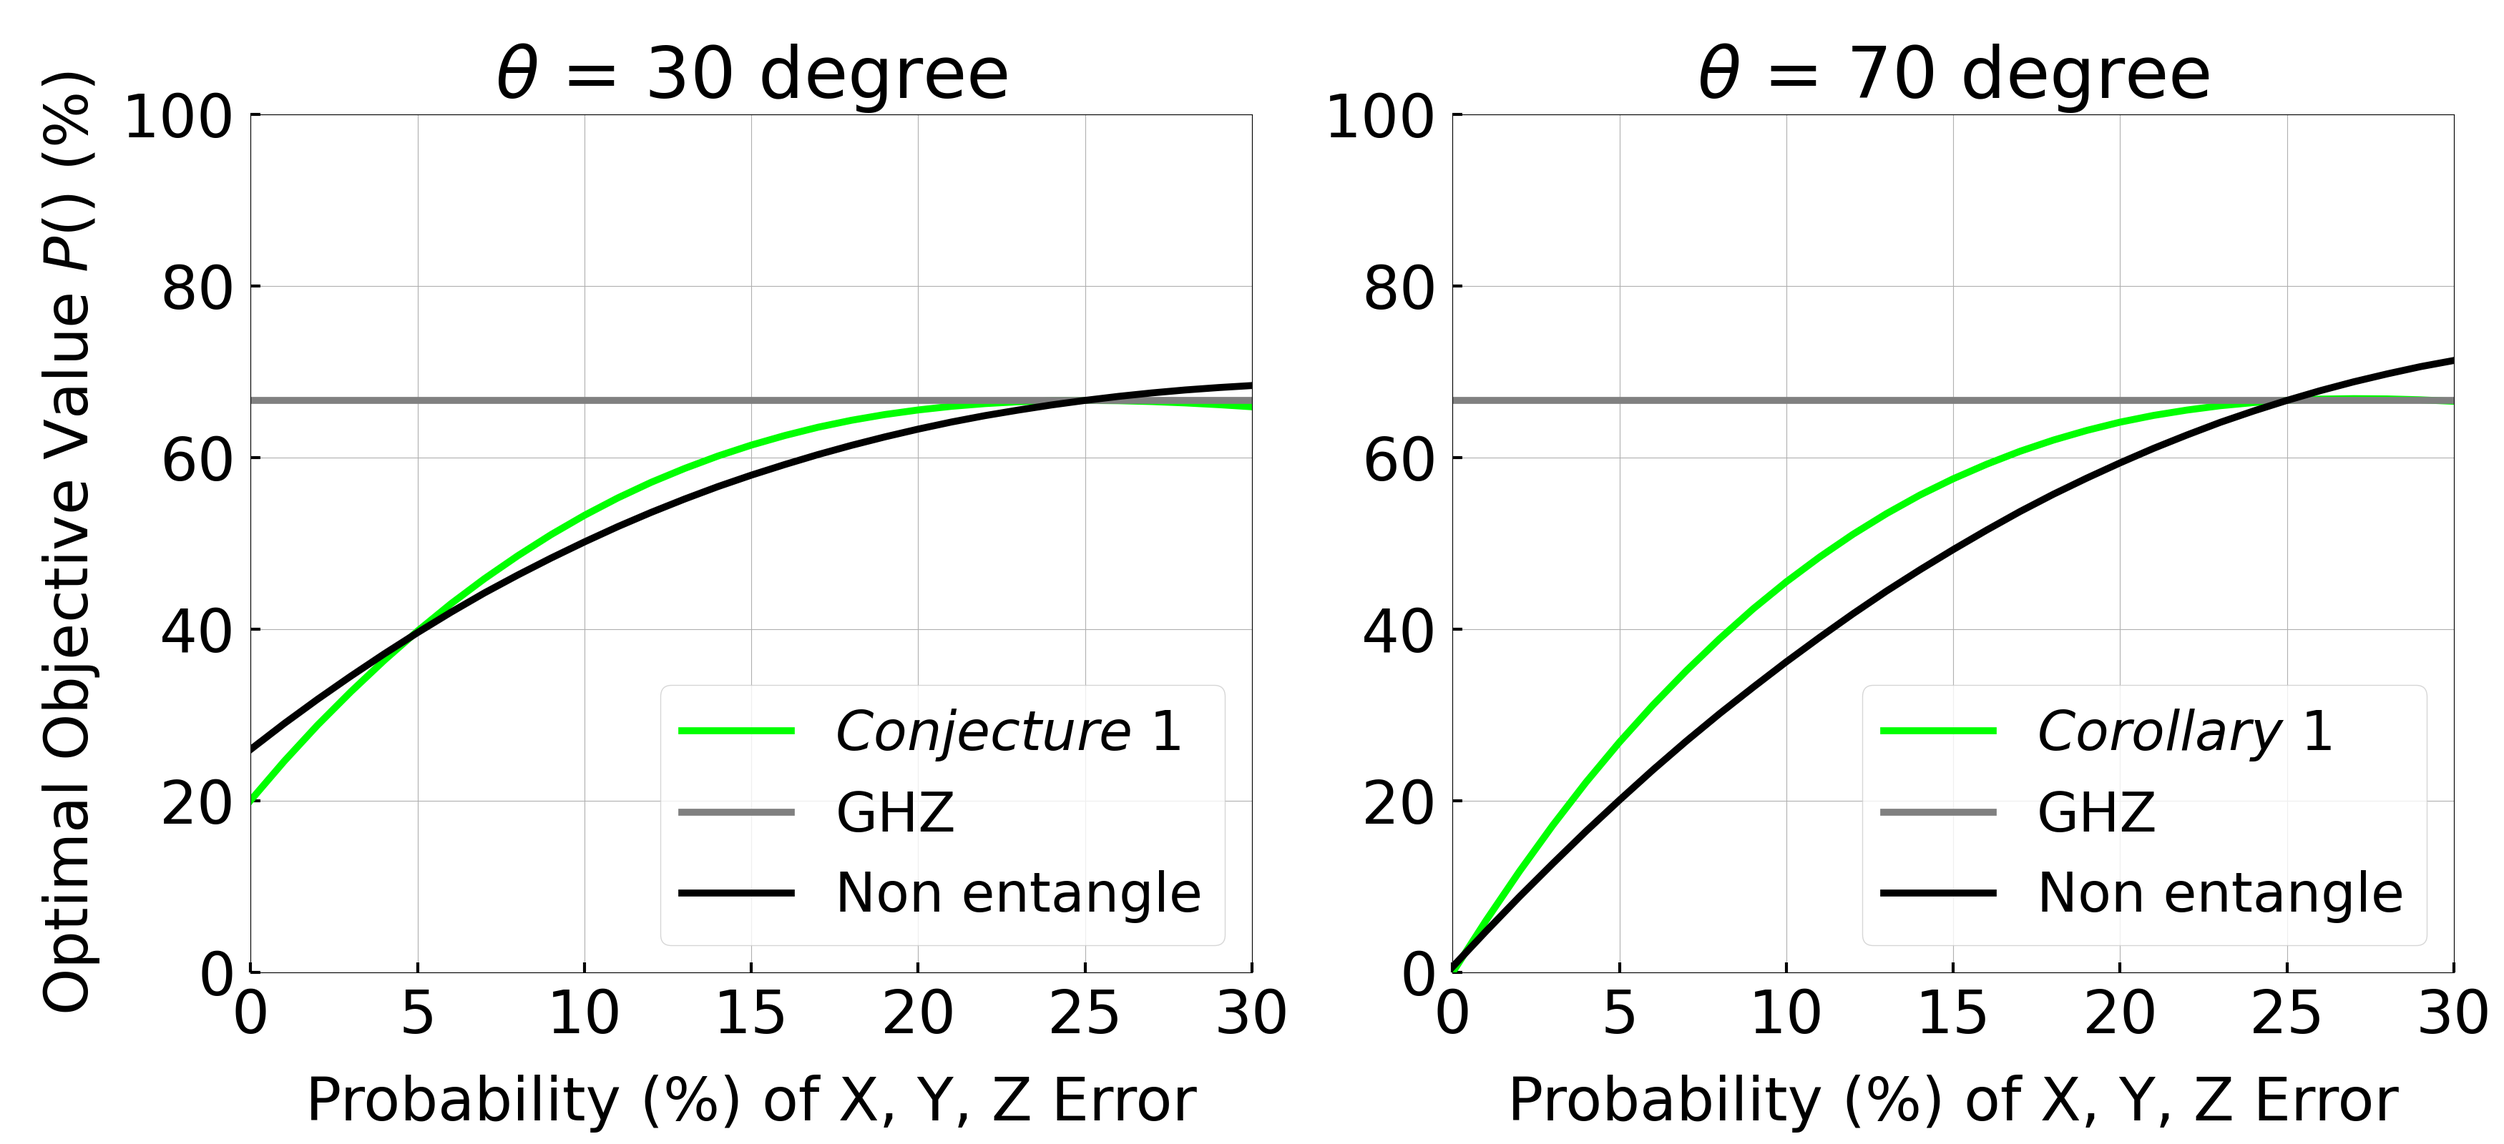
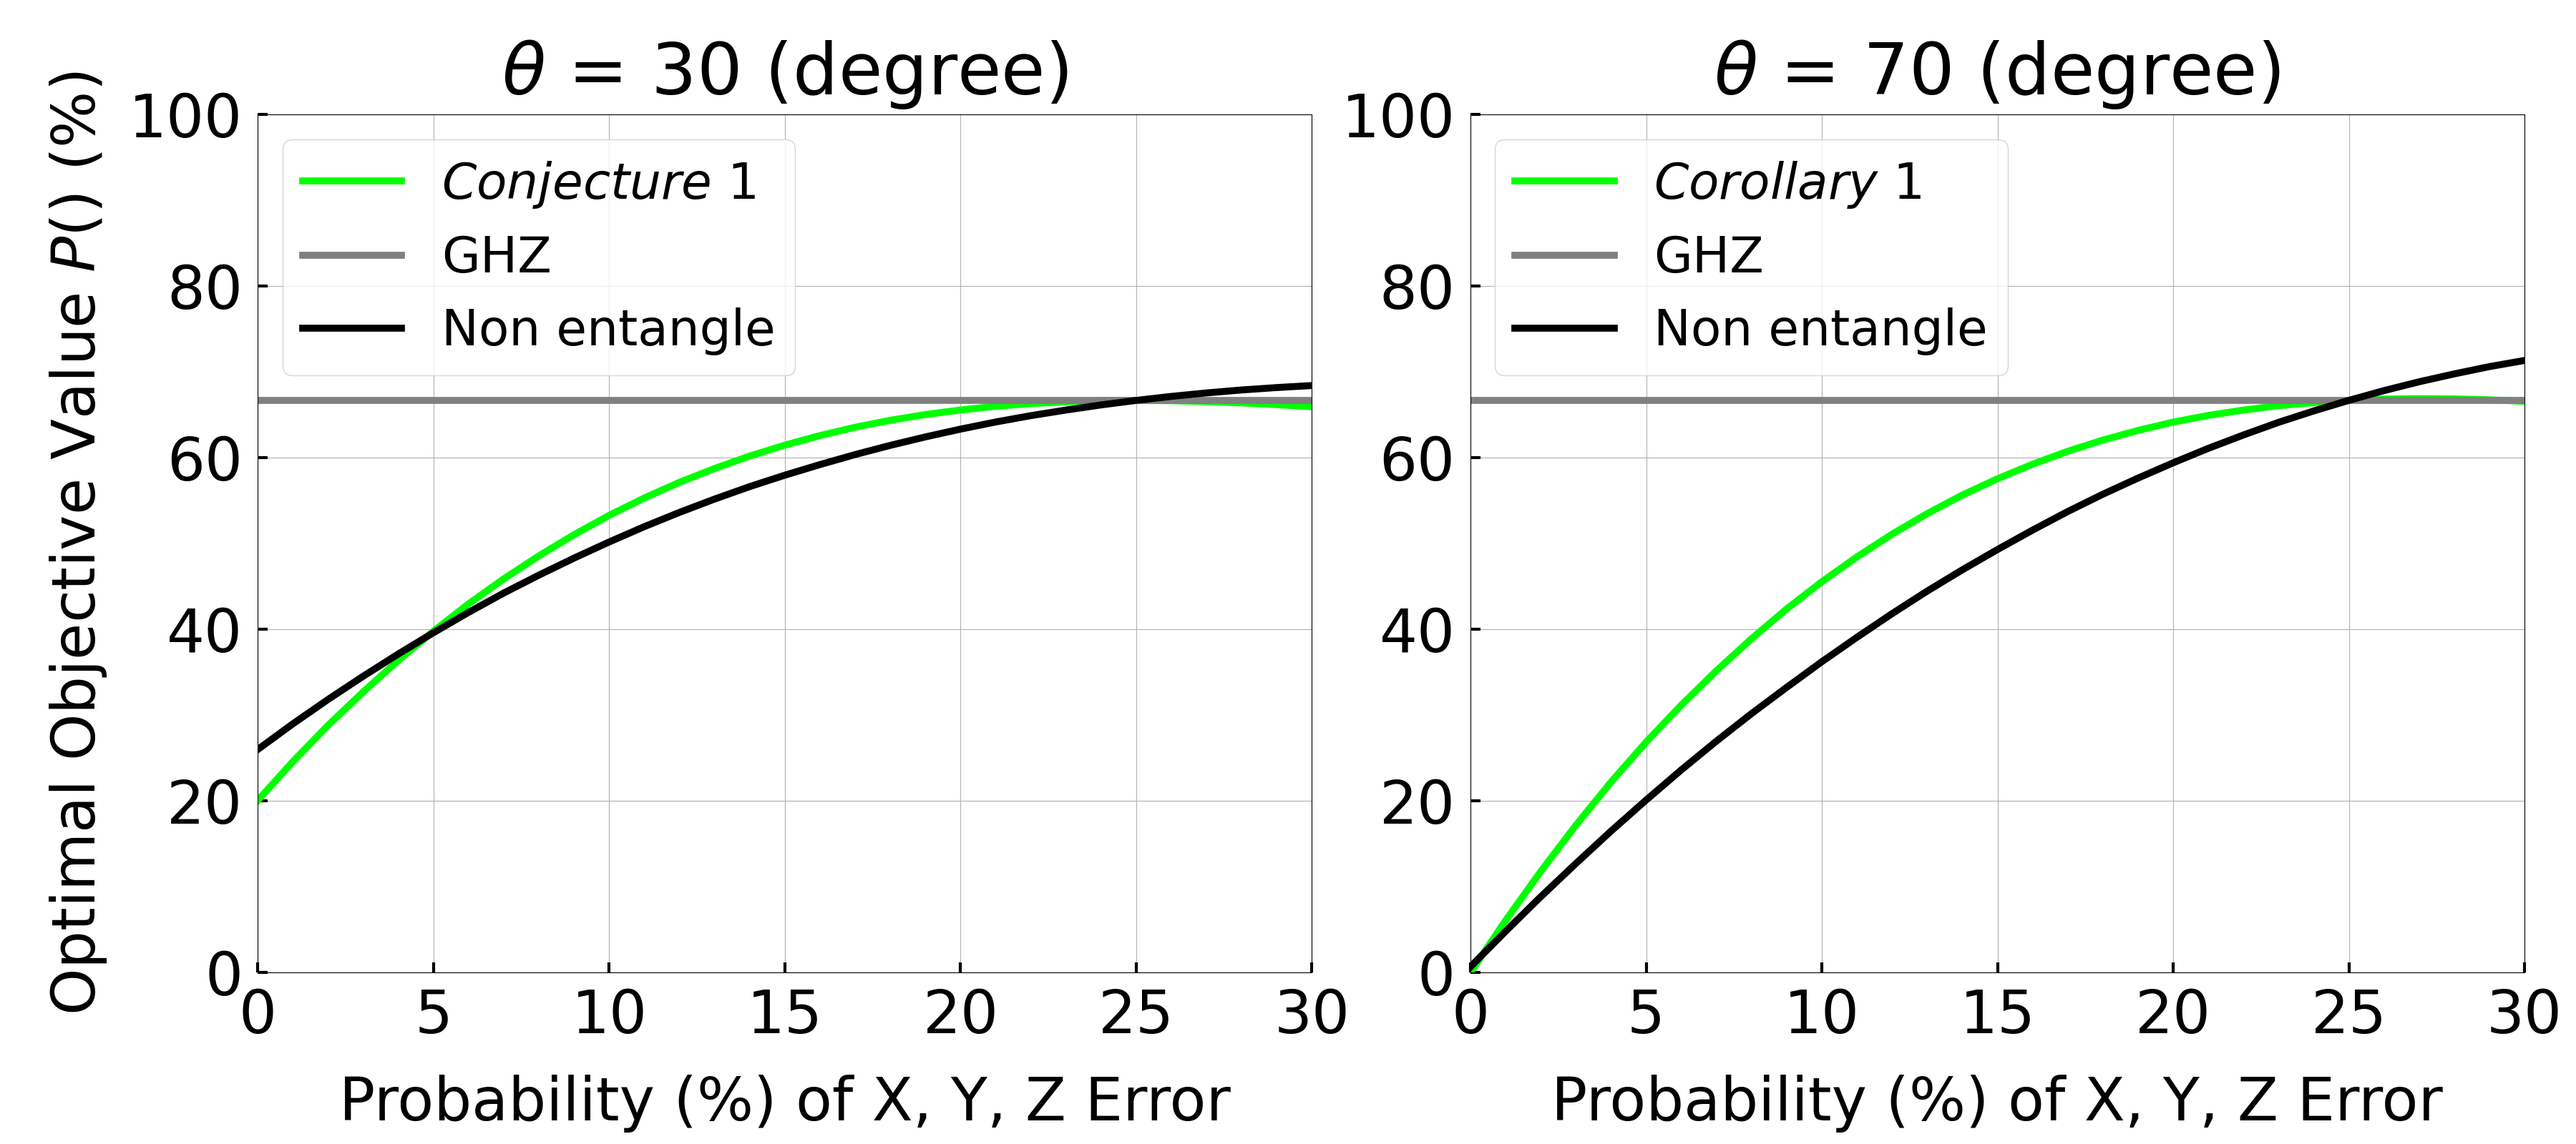
update plots

diff --git a/plot.py b/plot.py
@@ -860,8 +860,8 @@ class Plot:
             Y1[method] = [y * 100 for _, y in table1[method]]
         
         # plotting
-        fig, (ax0, ax1) = plt.subplots(1, 2, figsize=(35, 16))
-        fig.subplots_adjust(left=0.1, right=0.98, top=0.9, bottom=0.15)
+        fig, (ax0, ax1) = plt.subplots(1, 2, figsize=(36, 16))
+        fig.subplots_adjust(left=0.1, right=0.98, top=0.9, bottom=0.15, wspace=0.15)
         for method in methods:
             ax0.plot(X, Y0[method], label=Plot.METHOD[method], color=Plot.COLOR[method])
             label = '$Corollary$ 1' if method == 'Theorem' else Plot.METHOD[method]
@@ -870,7 +870,7 @@ class Plot:
         ax0.grid()
         ax0.set_xlim([-0.01, 30])
         ax0.set_ylim([0, 100])
-        ax0.set_title('$\\theta$ = 30 degree')
+        ax0.set_title('$\\theta$ = 30 (degree)', pad=20)
         ax0.tick_params(axis='x', direction='in', length=10, width=3, pad=15)
         ax0.tick_params(axis='y', direction='in', length=10, width=3, pad=15)
         xticks = [0, 5, 10, 15, 20, 25, 30]
@@ -878,18 +878,18 @@ class Plot:
         ax0.set_xticklabels([f'{x}' for x in xticks])
         ax0.set_xlabel('Probability (%) of X, Y, Z Error', labelpad=30)
         ax0.set_ylabel('Optimal Objective Value $P()$ (%)', fontsize=60, labelpad=20)
-        ax0.legend(fontsize=55)
+        ax0.legend(fontsize=50, loc='upper left')
         # ax1
         ax1.grid()
         ax1.set_xlim([-0.01, 30])
         ax1.set_ylim([0, 100])
-        ax1.set_title('$\\theta$ = 70 degree')
+        ax1.set_title('$\\theta$ = 70 (degree)', pad=20)
         ax1.tick_params(axis='x', direction='in', length=10, width=3, pad=15)
         ax1.tick_params(axis='y', direction='in', length=10, width=3, pad=15)
         ax1.set_xticks(xticks)
         ax1.set_xticklabels([f'{x}' for x in xticks])
         ax1.set_xlabel('Probability (%) of X, Y, Z Error', labelpad=30)
-        ax1.legend(fontsize=55)
+        ax1.legend(fontsize=50)
         fig.savefig(filename)
 
 
@@ -904,10 +904,10 @@ class Plot:
         for myinput, output_by_methods in data:
             for method, output in output_by_methods.items():
                 if myinput.unitary_theta == theta0 and method in methods:
-                    table0[method].append((round(myinput.noise_param, 2), output.error))
+                    table0[method].append((round(myinput.noise_param, 4), output.error))
                 if myinput.unitary_theta == theta1 and method in methods:
-                    table1[method].append((round(myinput.noise_param, 2), output.error))
-        X = [x * 100 for x, _ in table0[methods[0]]]           # to percentage
+                    table1[method].append((round(myinput.noise_param, 4), output.error))
+        X = [x * 180 / np.pi for x, _ in table0[methods[0]]]           # to degree
         Y0 = defaultdict(list)
         Y1 = defaultdict(list)
         for method in methods:
@@ -917,36 +917,36 @@ class Plot:
             Y1[method] = [y * 100 for _, y in table1[method]]
         
         # plotting
-        fig, (ax0, ax1) = plt.subplots(1, 2, figsize=(35, 16))
-        fig.subplots_adjust(left=0.1, right=0.98, top=0.9, bottom=0.15)
+        fig, (ax0, ax1) = plt.subplots(1, 2, figsize=(36, 16))
+        fig.subplots_adjust(left=0.1, right=0.978, top=0.9, bottom=0.15, wspace=0.15)
         for method in methods:
             ax0.plot(X, Y0[method], label=Plot.METHOD[method], color=Plot.COLOR[method])
             label = '$Corollary$ 1' if method == 'Theorem' else Plot.METHOD[method]
             ax1.plot(X, Y1[method], label=label, color=Plot.COLOR[method])
         # ax0
         ax0.grid()
-        # ax0.set_xlim([-0.01, 30])
+        ax0.set_xlim([-0.01, 180])
         ax0.set_ylim([0, 100])
-        ax0.set_title('$\\theta$ = 30 degree')
+        ax0.set_title('$\\theta$ = 30 degree', pad=20)
         ax0.tick_params(axis='x', direction='in', length=10, width=3, pad=15)
         ax0.tick_params(axis='y', direction='in', length=10, width=3, pad=15)
-        # xticks = [0, 5, 10, 15, 20, 25, 30]
-        # ax0.set_xticks(xticks)
-        # ax0.set_xticklabels([f'{x}' for x in xticks])
-        ax0.set_xlabel('Phase Shift $\\theta$', labelpad=30)
+        xticks = [0, 30, 60, 90, 120, 150, 180]
+        ax0.set_xticks(xticks)
+        ax0.set_xticklabels([f'{x}' for x in xticks])
+        ax0.set_xlabel('Phase Shift $\\epsilon$ (degree)', labelpad=30)
         ax0.set_ylabel('Optimal Objective Value $P()$ (%)', fontsize=60, labelpad=20)
-        ax0.legend(fontsize=55)
+        ax0.legend(fontsize=50, loc='upper left')
         # ax1
         ax1.grid()
-        # ax1.set_xlim([-0.01, 30])
+        ax1.set_xlim([-0.01, 180])
         ax1.set_ylim([0, 100])
-        ax1.set_title('$\\theta$ = 70 degree')
+        ax1.set_title('$\\theta$ = 70 degree', pad=20)
         ax1.tick_params(axis='x', direction='in', length=10, width=3, pad=15)
         ax1.tick_params(axis='y', direction='in', length=10, width=3, pad=15)
-        # ax1.set_xticks(xticks)
-        # ax1.set_xticklabels([f'{x}' for x in xticks])
-        ax1.set_xlabel('Phase Shift $\\theta$', labelpad=30)
-        ax1.legend(fontsize=55)
+        ax1.set_xticks(xticks)
+        ax1.set_xticklabels([f'{x}' for x in xticks])
+        ax1.set_xlabel('Phase Shift $\\epsilon$ (degree)', labelpad=30)
+        ax1.legend(fontsize=50)
         fig.savefig(filename)
 
 
@@ -1087,10 +1087,10 @@ def unambiguous_vary_theta():
 
 def noise_affect():
     # depolar noise
-    # logs = ['result/11.28.2023/noise_affect']
-    # data = Logger.read_log(logs)
-    # filename = 'result/11.28.2023/noise_affect.png'
-    # Plot.noise_affect_vary_depolar_noise(data, filename)
+    logs = ['result/11.28.2023/noise_affect_depolar']
+    data = Logger.read_log(logs)
+    filename = 'result/11.28.2023/noise_affect_depolar.png'
+    Plot.noise_affect_vary_depolar_noise(data, filename)
 
     # phase shift noise
     logs = ['result/11.28.2023/noise_affect_phaseshift']
